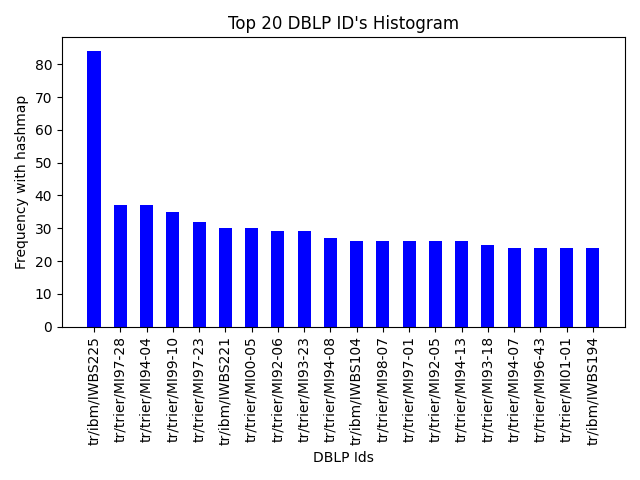
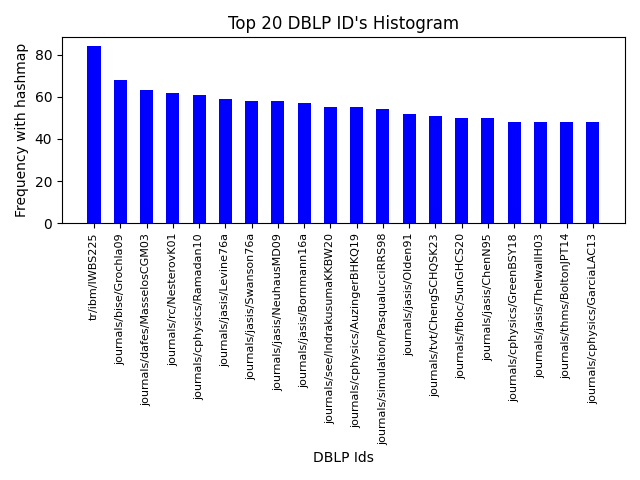
update for testing query function time complexity

diff --git a/Kmer.py b/Kmer.py
@@ -2,6 +2,12 @@ import matplotlib.pyplot as plt
 import sys
 
 
+#*Documentation* if when developing the mer_hash table and you 
+#pass that you do want it to generate characters in lowercase 
+#then when querying you also must pass that you want it to devleop the 
+#hash table used to develop in lowercase or you will get an error
+
+
 #allows us to query a title from our mer_hash that contains
 #an ID for every mer that exists
 #therefore using the mer_hash it is able to identify the frequency of 
@@ -15,7 +21,7 @@ def query_selector(title, mer_hash, x):
     #print count
 
     count = {}
-    arr = mer_builder(title, x)
+    arr = mer_builder(title, x, False)
     for kmer in arr:
         for each_paper in mer_hash[kmer]:
             if each_paper in count:
@@ -31,20 +37,36 @@ def query_selector(title, mer_hash, x):
 #title: hello
 #array: mer_array = [hel, elo, llo]
 
-def mer_builder(paper_title,x):  
-    current_mer = ""
-    mer_array = []
+def mer_builder(paper_title,x, lower_case):  
+    if lower_case:
+        current_mer = ""
+        mer_array = []
 
-    if paper_title is not None:
-        for i in range(0, x):
-            if i < len(paper_title):
-                current_mer += paper_title[i]   
-        mer_array.append(current_mer)
+        if paper_title is not None:
+            for i in range(0, x):
+                if i < len(paper_title):
+                    current_mer += paper_title[i]   
+            mer_array.append(current_mer.lower())
 
-        while x < len(paper_title):
-            current_mer = current_mer[1:] + paper_title[x]
+            while x < len(paper_title):
+                current_mer = current_mer[1:] + paper_title[x]
+                mer_array.append(current_mer.lower())
+                x+=1
+
+    else:
+        current_mer = ""
+        mer_array = []
+
+        if paper_title is not None:
+            for i in range(0, x):
+                if i < len(paper_title):
+                    current_mer += paper_title[i]   
             mer_array.append(current_mer)
-            x+=1
+
+            while x < len(paper_title):
+                current_mer = current_mer[1:] + paper_title[x]
+                mer_array.append(current_mer)
+                x+=1
 
     return mer_array
 
@@ -52,9 +74,8 @@ def mer_builder(paper_title,x):
 #allows us to take in a paper object along with the k-mer represented by x
 #in this instance and will build the mer_hash table which will have an ID or 
 #ID's associated for every mer
-def mer_hashtable(paper, x, mer_hash):
-    mer_array = mer_builder(paper.title, x)
-    
+def mer_hashtable(paper, x, mer_hash, lower_case):
+    mer_array = mer_builder(paper.title, x, lower_case)
     for arr in mer_array:
         if arr not in mer_hash:
             mer_hash[arr] = [paper.paper_id]
@@ -96,7 +117,7 @@ def histogramQuery(count_dict, filename= None):
 
     bar_width = 0.5
     plt.bar(range(len(k_mer_labels)), k_mer_counts, width=bar_width, color='blue')
-    plt.xticks(range(len(k_mer_labels)), k_mer_labels, rotation=90)
+    plt.xticks(range(len(k_mer_labels)), k_mer_labels, rotation=90, fontsize=8)  # Adjust the fontsize here
     plt.xlabel("DBLP Ids")
     plt.ylabel("Frequency with hashmap")
     plt.title("Top 20 DBLP ID's Histogram")

diff --git a/Main.py b/Main.py
@@ -3,6 +3,7 @@ from Parse import Paper, parse_DBLP_file, parse_MAG_file
 from Kmer import query_selector, mer_hashtable, histogramQuery,histogramMers
 import os, psutil
 process = psutil.Process()
+import time
 
 
 def main():
@@ -17,31 +18,35 @@ def main():
 
     dblp_callbacks = [
         #lambda current_paper: print_paper(current_paper),
-        lambda current_paper: mer_hashtable(current_paper, 3, dblp_mer_hash)
+        lambda current_paper: mer_hashtable(current_paper, 3, dblp_mer_hash,lower_case = False)
     ]
-    parse_DBLP_file(file_path_dblp, dblp_callbacks,100000)
+    #parse_DBLP_file(file_path_dblp, dblp_callbacks,100000)
 
     mag_callbacks = [
-        #lambda current_paper: print_paper(current_paper),
-        lambda current_paper: mer_hashtable(current_paper, 3, mag_mer_hash) 
+        lambda current_paper: print_paper(current_paper),
+        lambda current_paper: mer_hashtable(current_paper, 3, mag_mer_hash,lower_case = False) 
     ]
-    parse_MAG_file(file_path_MAG, mag_callbacks,100000)
+    parse_MAG_file(file_path_MAG, mag_callbacks,160000)
 
     #memoryatend = process.memory_info().rss 
     #print(memoryatend/1024/1024)
     #print((memoryatend-memoryatstart)/1024/1024)
 
-    query_count1 = query_selector("A Combined Symbolic-Empirical Apprach for the Automatic Translation of Compounds", dblp_mer_hash, 3)
-    query_count2 = query_selector("Definite Resolution over Constraint Languages", dblp_mer_hash, 3)
-    query_count3 = query_selector("LILOG-DB: Database Support for Knowledge-Based Systems", dblp_mer_hash, 3)
+    #query_count1 = query_selector("A Combined Symbolic-Empirical Apprach for the Automatic Translation of Compounds", dblp_mer_hash, 3)
+    #query_count2 = query_selector("Definite Resolution over Constraint Languages", dblp_mer_hash, 3)
+    #query_count3 = query_selector("LILOG-DB: Database Support for Knowledge-Based Systems", dblp_mer_hash, 3)
+    start = time.time()
+    query_selector("annotated bibliography on biblical interpretation", mag_mer_hash, 3)
+    end = time.time()
+    print(end - start)
 
-    histogramQuery(query_count1, filename="query_histogram_DBLP_1.png")
-    histogramQuery(query_count1)
-    histogramQuery(query_count2, filename="query_histogram_DBLP_2.png")
-    histogramQuery(query_count2)
-    histogramQuery(query_count3, filename="query_histogram_DBLP_3.png")
+    #histogramQuery(query_count1, filename="query_histogram_DBLP_1.png")
+    #histogramQuery(query_count1)
+    #histogramQuery(query_count2, filename="query_histogram_DBLP_2.png")
+    #histogramQuery(query_count2)
+    #histogramQuery(query_count3, filename="query_histogram_DBLP_3.png")
 
-    histogramMers(dblp_mer_hash, filename="most_frequent_mer_DBLP_histogram.png")
+    #histogramMers(dblp_mer_hash, filename="most_frequent_mer_DBLP_histogram.png")
     #histogramMers(mag_mer_hash, filename="most_frequent_mer_MAG_histogram.png")
  
 

diff --git a/Callback.py b/Callback.py
@@ -15,9 +15,18 @@ def print_paper(paper):
     if print_counter < 30:
         if paper is not None:
             print("Author:", paper.author if paper.author else "None")
-            # Handle encoding errors by replacing non-encodable characters
-            title = paper.title.encode('utf-8', errors='replace').decode('utf-8')
-            print("Title:", title if title else "None")
+
+            #note that due to a UTF-8 error I have a try catch statement here 
+            #inorder to skip the title if there is an error with the unicode however
+            #the characters within the title that are parsed will still remain the same what
+            #is printed out is the only thing differnt
+            try:
+                # Encode the title as UTF-8 and decode it
+                title = paper.title.encode('utf-8', errors='ignore').decode('utf-8', errors='ignore')
+                print("Title:", title if title else "None")
+            except UnicodeEncodeError:
+                print("Title: [Unable to display due to encoding error]")
+                
             print("Paper ID: ", paper.paper_id if paper.paper_id else "None")
             print("Year:", paper.year if paper.year else "None")
             print("Pages:", paper.pages if paper.pages else "None")

diff --git a/Parse.py b/Parse.py
@@ -37,7 +37,7 @@ def parse_DBLP_file(file_path,callback,count_to):
             elif '</article>' in current_line or '</inproceedings>' in current_line or '</incollection>' in current_line or '</book>' in current_line:
                 for fnction in callback:
                     fnction(current_paper)
-                    count_line+=1
+                count_line+=1
                 current_paper = None
             
             if current_paper:
@@ -69,6 +69,7 @@ def parse_MAG_file(file_path,callback, count_to):
     line_counter = 0
     with gzip.open(file_path, 'rt', encoding='utf-8') as file:
         for line in file:
+            line = line.encode('utf-8', errors='replace').decode('utf-8')
             if(line_counter > count_to):
                 return
             line_counter += 1
